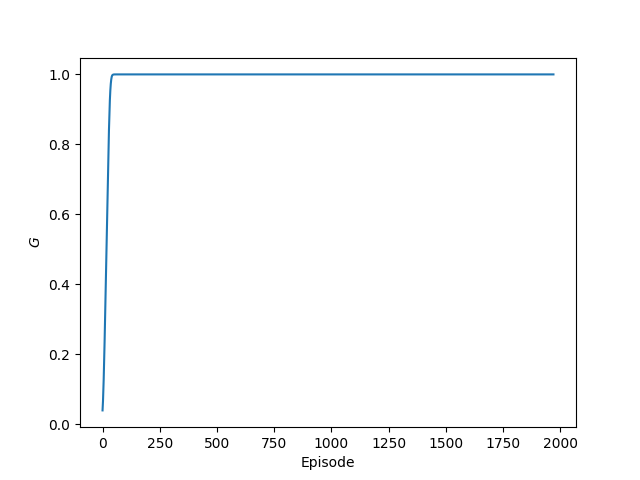
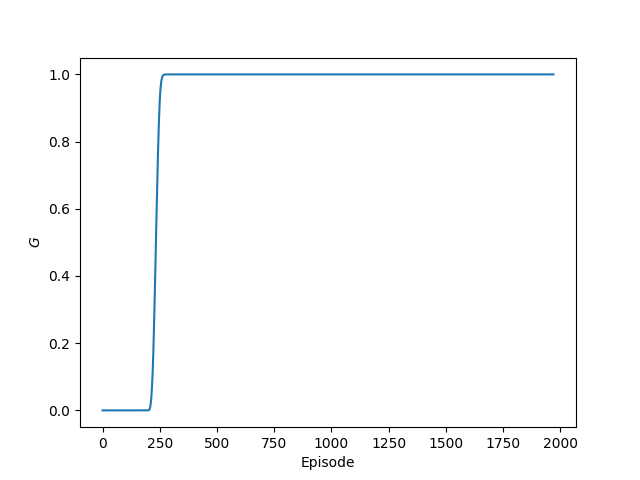
Add TabularEnsembleQAgent

diff --git a/run_frozenlake_ensemble.py b/run_frozenlake_ensemble.py
@@ -1,0 +1,88 @@
+#!/usr/bin/env python3
+"""
+Run a specified agent on FrozenLakeDeterministic8x8-v0.
+"""
+import gym
+import matplotlib.pyplot as plt
+import numpy as np
+import random
+
+from agents import *
+from common import get_running_mean, get_q_map
+from envs import get_frozenlake
+from replay import UniformReplayBuffer, PrioritizedReplayBuffer
+
+
+# Hyperparameters
+NB_TRAINING_EPISODES = 2000
+NB_TEST_EPISODES = 100
+LEARNING_RATE = 0.1
+EPSILON = 0.1
+
+# For reproducibility
+SEED = 0xc0ffee
+random.seed(SEED)
+np.random.seed(SEED)
+
+# Setup Agent & Environment
+env = get_frozenlake(seed=SEED)
+
+replay_buffers = [
+    # replay_buffer, batch_size
+    (PrioritizedReplayBuffer(capacity=10), 4),
+    (PrioritizedReplayBuffer(capacity=1000), 12),
+]
+agent = TabularEmsembleQAgent(env.observation_space,
+                              env.action_space,
+                              replay_buffers,
+                              lr=0.05,
+                              epsilon=0.1)
+
+# Train agent
+init_state_values = []
+for i in range(NB_TRAINING_EPISODES):
+    obs = env.reset()
+    init_state_value = agent.get_state_value(obs)
+    init_state_values.append(init_state_value)
+    print('Initial state value for episode {:5d}: {}'.format(i + 1, init_state_value))
+    
+    done = False
+
+    while not done:
+        action = agent.get_action(obs)
+        next_obs, rew, done, info = env.step(action)
+        agent.learn(obs, action, next_obs, rew, done)
+        obs = next_obs
+
+# Plot Initial State Values
+plt.xlabel('Episode')
+plt.ylabel('$V(s_0)$')
+plt.plot(init_state_values)
+plt.savefig('results/images/run_frozenlake_with_online_q.png')
+plt.show()
+
+# Plot Smoothed Initial State Values
+plt.xlabel('Episode')
+plt.ylabel('$G$')
+plt.plot(get_running_mean(init_state_values))
+plt.savefig('results/images/run_frozenlake_with_online_q_smooth.png')
+plt.show()
+
+# Print Q-Map
+print(get_q_map(env, agent))
+
+# Test Agent
+epi_returns = []
+for i in range(NB_TEST_EPISODES):
+    obs = env.reset()
+
+    done = False
+    epi_return = 0
+    while not done:
+        action = agent.get_action(obs, epsilon=0)
+        obs, rew, done, info = env.step(action)
+        epi_return += rew
+
+    epi_returns.append(epi_return)
+
+print('Average Episodic Return of ', np.mean(epi_returns))

diff --git a/agents/tabular.py b/agents/tabular.py
@@ -112,3 +112,59 @@ class TabularBufferQAgent(TabularAgent):
             else:
                 delta = reward + np.max(self.q_table[next_state]) - self.q_table[state][action]
             self.q_table[state][action] += self.lr * delta
+
+
+class TabularEmsembleQAgent(TabularAgent):
+    def __init__(self, state_space, action_space, replay_buffers,
+                 lr=0.1, epsilon=0.1):
+        """
+        Agent that learns action values (Q) through Q-learning method with
+        ensemble experience replay. Assumes Discrete state space and action
+        space.
+        """
+        TabularAgent.__init__(self, state_space, action_space)
+        self.replay_buffers = replay_buffers
+        self.lr = lr
+        self.epsilon = epsilon
+
+        self.q_table = np.zeros((state_space.n, action_space.n))
+
+    def get_action(self, state, epsilon=None):
+        """
+        Get action chosen by the agent given a state.
+        """
+        if epsilon is None:
+            epsilon = self.epsilon
+
+        if np.random.random() < epsilon: # Random selection
+            return np.random.choice(self.action_space.n)
+        else: # Greedy selection
+            best_actions = argmax_all(self.q_table[state])
+            return np.random.choice(best_actions)
+
+    def get_state_value(self, state):
+        """
+        Get state value V(s) of given state s.
+        """
+        return np.max(self.q_table[state])
+
+    def learn(self, state, action, next_state, reward, done):
+        """
+        Train the agent by sampling from the replay buffer.
+
+        TODO Improve efficiency through matrix operations.
+        """
+        transition = (state, action, next_state, reward, done)
+        for replay_buffer, batch_size in self.replay_buffers:
+            replay_buffer.append(transition)
+
+            if len(replay_buffer) < batch_size:
+                return
+
+            transitions = replay_buffer.sample(batch_size)
+            for state, action, next_state, reward, done in transitions:
+                if done:
+                    delta = reward - self.q_table[state][action]
+                else:
+                    delta = reward + np.max(self.q_table[next_state]) - self.q_table[state][action]
+                self.q_table[state][action] += self.lr * delta
